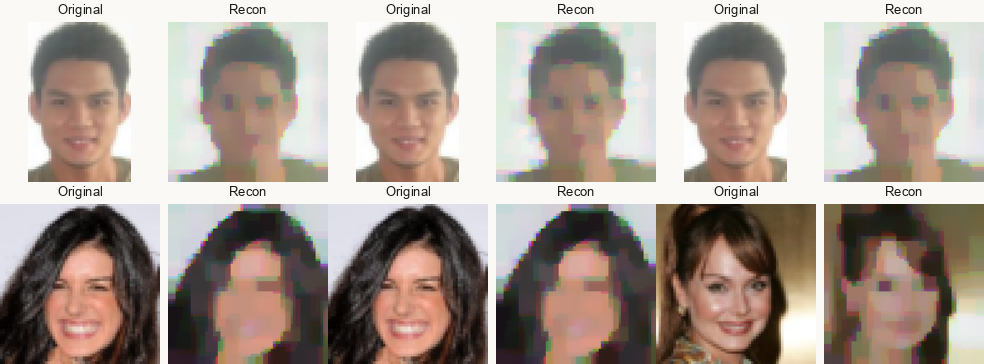
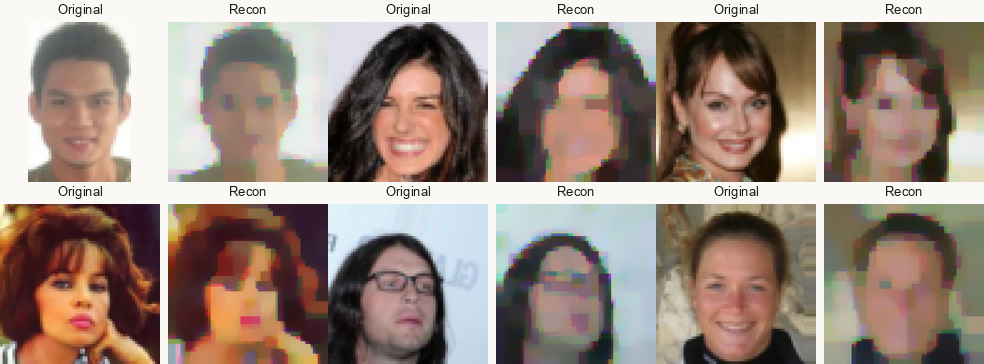
fix: dedupe montage by client so top reconstructions aren't the same face repeated
prepare_montages() ranked all 38 runs by metric and took the top 6, but
many runs are the same client under different ablation/defense
settings, so the montage consistently showed 2-3 clients' faces
repeated across all 6 cells (flagged by user against the live page).

Now takes the single best-ranked run per distinct client first, then
ranks those and takes the top 6 -- guarantees 6 distinct people.
Verified "global" (shared by the showcase and defenses groups, 7 of
the 38 runs) is correctly one dedupe key, not two collapsed into one:
results/showcase/baseline_attack_result.png and
results/defenses/baseline/baseline_attack_result.png are byte-identical,
the same fixed sample.

Tried 9 cells (3x3) first to use more of the 11 available distinct
clients, but that shrank faces/labels below legible at 390px mobile
width; reverted to 6 at the original cell size, which was already
screenshot-verified at both widths in the prior commit.

diff --git a/scripts/make_dashboard.py b/scripts/make_dashboard.py
@@ -620,10 +620,19 @@ class DashboardBuilder:
                     {"name": png.stem.replace("_", " ").title(), "path": safe_relative(dest, self.output_dir)}
                 )
         if not montages:
-            # Auto-generate montage from top runs
-            best_runs = sorted(runs, key=lambda r: ranking_tuple(r.metrics))[:6]
+            # Auto-generate a montage from the best-ranked run per distinct
+            # client, not the raw top-N by metric: several methods/settings
+            # are benchmarked against the same client's fixed held-out
+            # image, so a plain top-N pick clusters on whichever 2-3 clients
+            # happen to score best and shows the same face repeated.
+            best_per_client: Dict[str, RunEntry] = {}
+            for run in sorted(runs, key=lambda r: ranking_tuple(r.metrics)):
+                identity = run.client or run.run_id
+                if identity not in best_per_client:
+                    best_per_client[identity] = run
+            diverse_runs = sorted(best_per_client.values(), key=lambda r: ranking_tuple(r.metrics))[:6]
             image_paths = [
-                self._find_composite(self.root / run.source_dir) for run in best_runs if run.source_dir
+                self._find_composite(self.root / run.source_dir) for run in diverse_runs if run.source_dir
             ]
             image_paths = [path for path in image_paths if path is not None]
             if image_paths:
